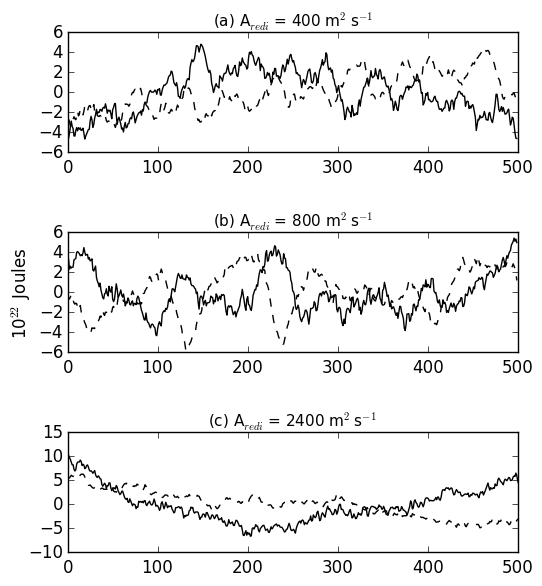
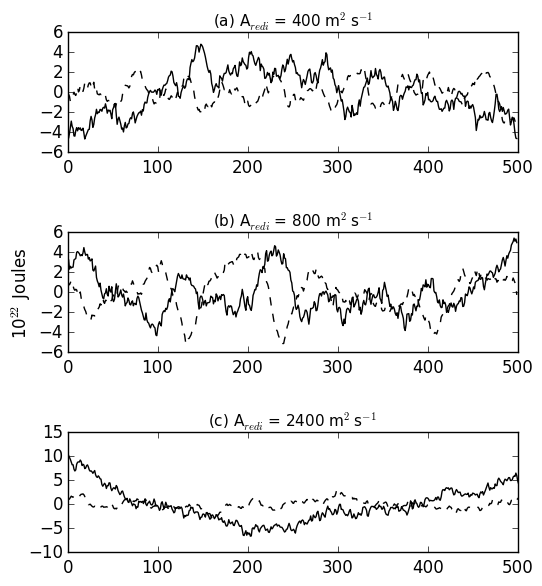
detrended SH ohc in timeseries

diff --git a/python/plot_aredi_global_ohc.py b/python/plot_aredi_global_ohc.py
@@ -53,7 +53,7 @@ global_heat_anomaly = {}
 global_heat_detrend = {}
 heat_SH = {}
 heat_SH_anomaly = {}
-
+heat_SH_detrend = {}
 for name in names:
     heat[name], heat_sumz[name], heat_global[name] = calc_ohc(temp[name], rhodzt[name], area[name])
     global_heat_mean[name] = heat_global[name].collapsed('time', iris.analysis.MEAN)
@@ -68,6 +68,7 @@ for name in names:
     heat_SH[name] = b.collapsed(['longitude', 'latitude'], iris.analysis.SUM)
     mean_SH = heat_SH[name].collapsed('time', iris.analysis.MEAN)
     heat_SH_anomaly[name] = heat_SH[name] - mean_SH
+    heat_SH_detrend[name] = signal.detrend(heat_SH_anomaly[name].data)
 
 fig1 = plt.figure(figsize = (6, 8))
 ax1 = fig1.add_axes([0.1, 0.75, 0.8, 0.15])
@@ -87,18 +88,18 @@ ax3.set_xlim([0,500])
 fig1 = plt.figure(figsize = (6, 8))
 ax1 = fig1.add_axes([0.15, 0.75, 0.75, 0.15])
 ax1.plot((global_heat_detrend['aredi_400'])/1e22, color = 'k', label = 'aredi = 400 m$^2$s$^{-1}$')
-ax1.plot(heat_SH_anomaly['aredi_400'].data/1e22, color = 'k', ls = '--')
+ax1.plot(heat_SH_detrend['aredi_400']/1e22, color = 'k', ls = '--')
 plt.title('(a) A$_{redi}$ = 400 m$^2$s$^{-1}$', fontsize = 11)
 
 ax2 = fig1.add_axes([0.15, 0.5, 0.75, 0.15])
 ax2.plot(global_heat_detrend['aredi_800']/1e22, color = 'k', label = 'aredi = 800 m$^2$s$^{-1}$')
-ax2.plot(heat_SH_anomaly['aredi_800'].data/1e22, color = 'k', ls = '--')
+ax2.plot(heat_SH_detrend['aredi_800']/1e22, color = 'k', ls = '--')
 plt.title('(b) A$_{redi}$ = 800 m$^2$s$^{-1}$', fontsize = 11)
 plt.ylabel('10$^{22}$ Joules')
 
 ax3 = fig1.add_axes([0.15, 0.25, 0.75, 0.15])
 ax3.plot(global_heat_detrend['aredi_2400']/1e22, color = 'k', label = 'aredi = 2400 m$^2$s$^{-1}$')
-ax3.plot(heat_SH_anomaly['aredi_2400'].data/1e22, color = 'k', ls = '--')
+ax3.plot(heat_SH_detrend['aredi_2400']/1e22, color = 'k', ls = '--')
 plt.title('(c) A$_{redi}$ = 2400 m$^2$s$^{-1}$', fontsize = 11)
 ax3.set_xlim([0,500])
 plt.savefig('notes/aredi_ohc_timeseries.png', bbox_inches='tight')
